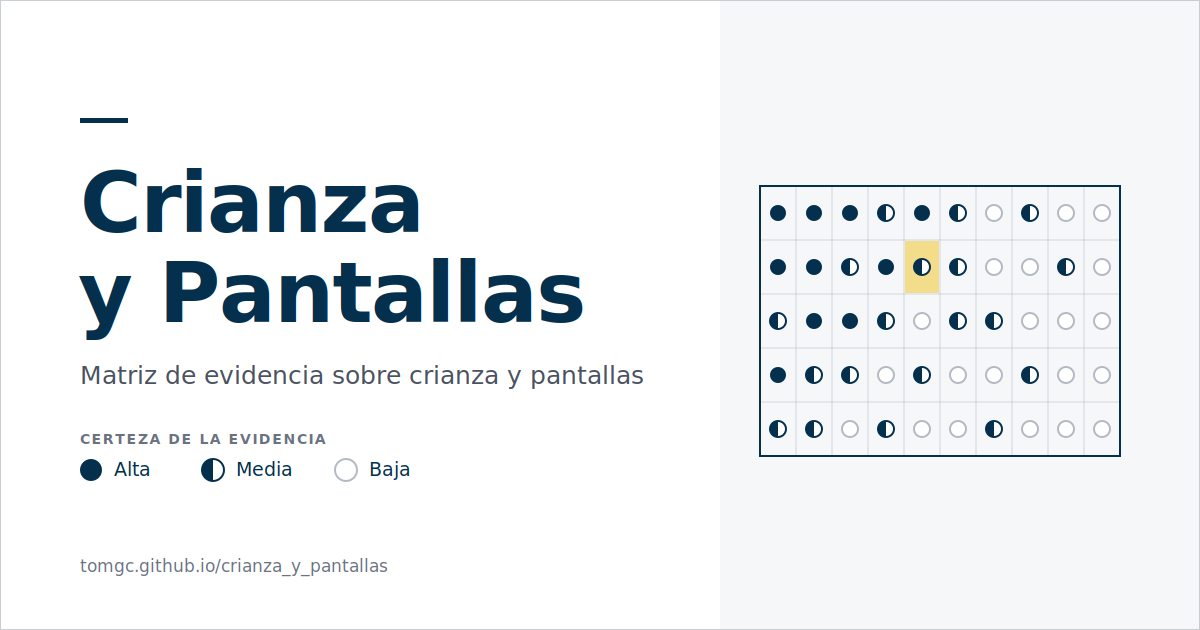
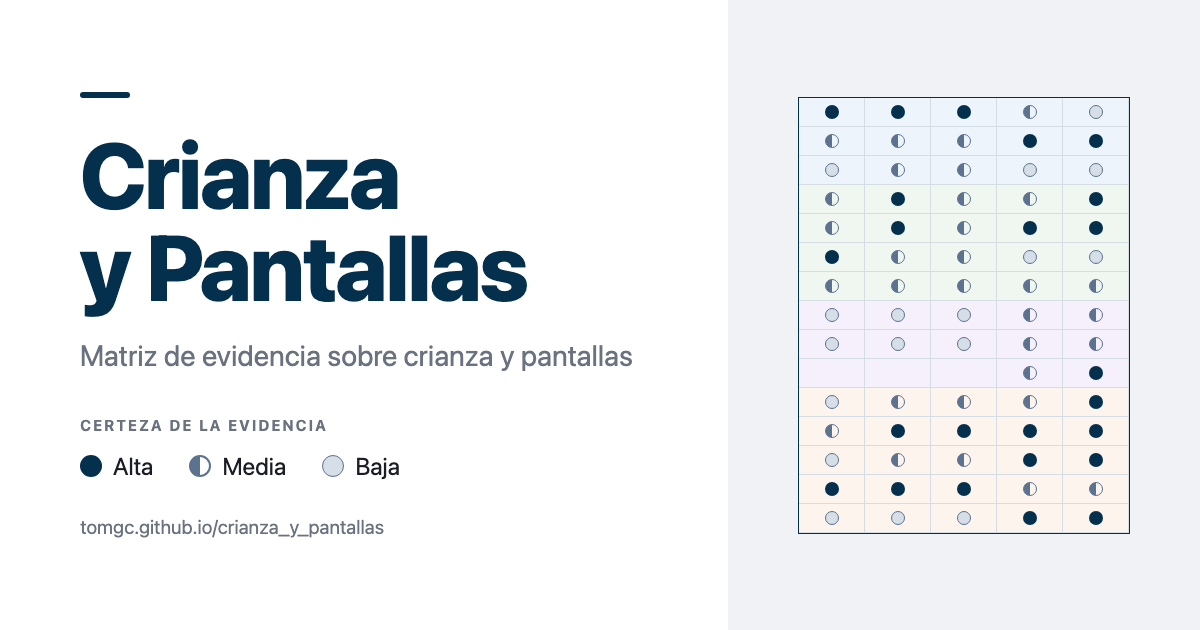
og-image: actualizar a 15×5 con bandas D-visual y certeza real; agregar generador

diff --git a/assets/og-image.html b/assets/og-image.html
@@ -1,0 +1,55 @@
+<!doctype html><html lang="es"><head><meta charset="utf-8"><style>
+*{margin:0;padding:0;box-sizing:border-box}
+html,body{width:1200px;height:630px}
+body{display:flex;font-family:-apple-system,BlinkMacSystemFont,"Segoe UI",Roboto,"Helvetica Neue",Arial,sans-serif;background:#fff;overflow:hidden}
+.left{width:728px;height:630px;padding:0 0 0 80px;display:flex;flex-direction:column;justify-content:center;background:#fff}
+.rule{width:50px;height:6px;background:#042f4d;border-radius:3px;margin-bottom:30px}
+.title{font-size:92px;line-height:1.0;font-weight:800;color:#042f4d;letter-spacing:-1.5px}
+.subtitle{font-size:29px;color:#6a7280;margin-top:26px}
+.spacer{height:44px}
+.cert{font-size:15px;color:#6a7280;font-weight:700;letter-spacing:2px}
+.legend{display:flex;gap:36px;align-items:center;margin-top:18px;font-size:24px;color:#1a1d24}
+.legend span{display:flex;align-items:center;gap:11px}
+.url{font-size:19px;color:#6a7280;margin-top:36px}
+.dot{width:22px;height:22px;border-radius:50%;display:inline-block;box-sizing:border-box}
+.high{background:#042f4d}
+.medium{background:linear-gradient(90deg,#5c728e 50%,transparent 50%);border:2px solid #5c728e}
+.low{background:#d6dfe8;border:1.5px solid #5c728e}
+.right{width:472px;height:630px;background:#f0f2f5;display:flex;align-items:center;justify-content:center}
+.grid{border:1px solid #042f4d;background:#fff}
+.row{display:grid;grid-template-columns:repeat(5,1fr)}
+.cog{background:#eef4fb}.soc{background:#f0f7f0}.dig{background:#f5f0fb}.bie{background:#fdf4ee}
+.cell{width:66px;height:29px;display:flex;align-items:center;justify-content:center;border-right:1px solid #d4dce4;border-bottom:1px solid #d4dce4}
+.cell .dot{width:14px;height:14px;border-width:1.5px}
+</style></head><body>
+  <div class="left">
+    <div class="rule"></div>
+    <div class="title">Crianza<br>y Pantallas</div>
+    <div class="subtitle">Matriz de evidencia sobre crianza y pantallas</div>
+    <div class="spacer"></div>
+    <div class="cert">CERTEZA DE LA EVIDENCIA</div>
+    <div class="legend">
+      <span><i class="dot high"></i>Alta</span>
+      <span><i class="dot medium"></i>Media</span>
+      <span><i class="dot low"></i>Baja</span>
+    </div>
+    <div class="url">tomgc.github.io/crianza_y_pantallas</div>
+  </div>
+  <div class="right"><div class="grid">
+      <div class="row cog"><div class="cell"><i class="dot high"></i></div><div class="cell"><i class="dot high"></i></div><div class="cell"><i class="dot high"></i></div><div class="cell"><i class="dot medium"></i></div><div class="cell"><i class="dot low"></i></div></div>
+      <div class="row cog"><div class="cell"><i class="dot medium"></i></div><div class="cell"><i class="dot medium"></i></div><div class="cell"><i class="dot medium"></i></div><div class="cell"><i class="dot high"></i></div><div class="cell"><i class="dot high"></i></div></div>
+      <div class="row cog"><div class="cell"><i class="dot low"></i></div><div class="cell"><i class="dot medium"></i></div><div class="cell"><i class="dot medium"></i></div><div class="cell"><i class="dot low"></i></div><div class="cell"><i class="dot low"></i></div></div>
+      <div class="row soc"><div class="cell"><i class="dot medium"></i></div><div class="cell"><i class="dot high"></i></div><div class="cell"><i class="dot medium"></i></div><div class="cell"><i class="dot medium"></i></div><div class="cell"><i class="dot high"></i></div></div>
+      <div class="row soc"><div class="cell"><i class="dot medium"></i></div><div class="cell"><i class="dot high"></i></div><div class="cell"><i class="dot medium"></i></div><div class="cell"><i class="dot high"></i></div><div class="cell"><i class="dot high"></i></div></div>
+      <div class="row soc"><div class="cell"><i class="dot high"></i></div><div class="cell"><i class="dot medium"></i></div><div class="cell"><i class="dot medium"></i></div><div class="cell"><i class="dot low"></i></div><div class="cell"><i class="dot low"></i></div></div>
+      <div class="row soc"><div class="cell"><i class="dot medium"></i></div><div class="cell"><i class="dot medium"></i></div><div class="cell"><i class="dot medium"></i></div><div class="cell"><i class="dot medium"></i></div><div class="cell"><i class="dot medium"></i></div></div>
+      <div class="row dig"><div class="cell"><i class="dot low"></i></div><div class="cell"><i class="dot low"></i></div><div class="cell"><i class="dot low"></i></div><div class="cell"><i class="dot medium"></i></div><div class="cell"><i class="dot medium"></i></div></div>
+      <div class="row dig"><div class="cell"><i class="dot low"></i></div><div class="cell"><i class="dot low"></i></div><div class="cell"><i class="dot low"></i></div><div class="cell"><i class="dot medium"></i></div><div class="cell"><i class="dot medium"></i></div></div>
+      <div class="row dig"><div class="cell"></div><div class="cell"></div><div class="cell"></div><div class="cell"><i class="dot medium"></i></div><div class="cell"><i class="dot high"></i></div></div>
+      <div class="row bie"><div class="cell"><i class="dot low"></i></div><div class="cell"><i class="dot medium"></i></div><div class="cell"><i class="dot medium"></i></div><div class="cell"><i class="dot medium"></i></div><div class="cell"><i class="dot high"></i></div></div>
+      <div class="row bie"><div class="cell"><i class="dot medium"></i></div><div class="cell"><i class="dot high"></i></div><div class="cell"><i class="dot high"></i></div><div class="cell"><i class="dot high"></i></div><div class="cell"><i class="dot high"></i></div></div>
+      <div class="row bie"><div class="cell"><i class="dot low"></i></div><div class="cell"><i class="dot medium"></i></div><div class="cell"><i class="dot medium"></i></div><div class="cell"><i class="dot high"></i></div><div class="cell"><i class="dot high"></i></div></div>
+      <div class="row bie"><div class="cell"><i class="dot high"></i></div><div class="cell"><i class="dot high"></i></div><div class="cell"><i class="dot high"></i></div><div class="cell"><i class="dot medium"></i></div><div class="cell"><i class="dot medium"></i></div></div>
+      <div class="row bie"><div class="cell"><i class="dot low"></i></div><div class="cell"><i class="dot low"></i></div><div class="cell"><i class="dot low"></i></div><div class="cell"><i class="dot high"></i></div><div class="cell"><i class="dot high"></i></div></div>
+      </div></div>
+</body></html>

diff --git a/00_generar_og_image.py b/00_generar_og_image.py
@@ -1,0 +1,119 @@
+#!/usr/bin/env python3
+# -*- coding: utf-8 -*-
+# =============================================================================
+# 00_generar_og_image.py
+# -----------------------------------------------------------------------------
+# Genera la og-image (1200x630) de Crianza y Pantallas.
+# Lee metadata.json (dimensiones + tramos) y claims.json (certeza por celda),
+# construye assets/og-image.html (panel de marca + mini-matriz 15x5 con las 4
+# bandas de bloque de D-visual y la certeza REAL de cada celda) y la renderiza
+# a assets/og-image.png con Chrome headless.
+#
+# Uso:  python3 00_generar_og_image.py
+# Re-ejecutar tras cambios en la matriz (dimensiones, tramos o certezas).
+# El og:image del template ya apunta a assets/og-image.png; es asset estatico
+# (no pasa por ./00_build.sh).
+# =============================================================================
+import json, os, subprocess, sys
+from pathlib import Path
+
+ROOT   = Path(__file__).resolve().parent
+META   = ROOT / "10_fuentes/data/metadata.json"
+CLAIMS = ROOT / "10_fuentes/data/claims.json"
+HTML   = ROOT / "assets/og-image.html"
+PNG    = ROOT / "assets/og-image.png"
+
+# dim -> bloque tematico (replica DIM_BLOCKS de app.js)
+BLOCK = {
+    "lenguaje": "cog", "cognicion": "cog", "creatividad": "cog",
+    "socioemocional": "soc", "comportamiento": "soc", "vinculo": "soc", "co-regulacion": "soc",
+    "alfabetizacion": "dig", "privacidad": "dig", "cyberbullying": "dig",
+    "salud-mental": "bie", "sueno": "bie", "fisica": "bie", "alimentacion": "bie", "vision": "bie",
+}
+
+CSS = """*{margin:0;padding:0;box-sizing:border-box}
+html,body{width:1200px;height:630px}
+body{display:flex;font-family:-apple-system,BlinkMacSystemFont,"Segoe UI",Roboto,"Helvetica Neue",Arial,sans-serif;background:#fff;overflow:hidden}
+.left{width:728px;height:630px;padding:0 0 0 80px;display:flex;flex-direction:column;justify-content:center;background:#fff}
+.rule{width:50px;height:6px;background:#042f4d;border-radius:3px;margin-bottom:30px}
+.title{font-size:92px;line-height:1.0;font-weight:800;color:#042f4d;letter-spacing:-1.5px}
+.subtitle{font-size:29px;color:#6a7280;margin-top:26px}
+.spacer{height:44px}
+.cert{font-size:15px;color:#6a7280;font-weight:700;letter-spacing:2px}
+.legend{display:flex;gap:36px;align-items:center;margin-top:18px;font-size:24px;color:#1a1d24}
+.legend span{display:flex;align-items:center;gap:11px}
+.url{font-size:19px;color:#6a7280;margin-top:36px}
+.dot{width:22px;height:22px;border-radius:50%;display:inline-block;box-sizing:border-box}
+.high{background:#042f4d}
+.medium{background:linear-gradient(90deg,#5c728e 50%,transparent 50%);border:2px solid #5c728e}
+.low{background:#d6dfe8;border:1.5px solid #5c728e}
+.right{width:472px;height:630px;background:#f0f2f5;display:flex;align-items:center;justify-content:center}
+.grid{border:1px solid #042f4d;background:#fff}
+.row{display:grid;grid-template-columns:repeat(5,1fr)}
+.cog{background:#eef4fb}.soc{background:#f0f7f0}.dig{background:#f5f0fb}.bie{background:#fdf4ee}
+.cell{width:66px;height:29px;display:flex;align-items:center;justify-content:center;border-right:1px solid #d4dce4;border-bottom:1px solid #d4dce4}
+.cell .dot{width:14px;height:14px;border-width:1.5px}"""
+
+
+def build_html():
+    meta = json.loads(META.read_text(encoding="utf-8"))
+    claims = json.loads(CLAIMS.read_text(encoding="utf-8"))
+    ages = [g["id"] for g in meta["ageGroups"]]
+    dims = [d["id"] for d in meta["dimensions"]]
+    rows = ""
+    for d in dims:
+        cells = ""
+        for ag in ages:
+            cell = claims.get(f"{d}-{ag}", {})
+            cert = (cell.get("certainty", "") if cell.get("claims") else "empty") or "empty"
+            dot = "" if cert == "empty" else f'<i class="dot {cert}"></i>'
+            cells += f'<div class="cell">{dot}</div>'
+        rows += f'\n      <div class="row {BLOCK.get(d, "cog")}">{cells}</div>'
+    return (
+        '<!doctype html><html lang="es"><head><meta charset="utf-8"><style>\n'
+        + CSS +
+        '\n</style></head><body>\n'
+        '  <div class="left">\n'
+        '    <div class="rule"></div>\n'
+        '    <div class="title">Crianza<br>y Pantallas</div>\n'
+        '    <div class="subtitle">Matriz de evidencia sobre crianza y pantallas</div>\n'
+        '    <div class="spacer"></div>\n'
+        '    <div class="cert">CERTEZA DE LA EVIDENCIA</div>\n'
+        '    <div class="legend">\n'
+        '      <span><i class="dot high"></i>Alta</span>\n'
+        '      <span><i class="dot medium"></i>Media</span>\n'
+        '      <span><i class="dot low"></i>Baja</span>\n'
+        '    </div>\n'
+        '    <div class="url">tomgc.github.io/crianza_y_pantallas</div>\n'
+        '  </div>\n'
+        '  <div class="right"><div class="grid">' + rows + '\n      </div></div>\n'
+        '</body></html>\n'
+    )
+
+
+def find_chrome():
+    for c in [
+        "/Applications/Google Chrome.app/Contents/MacOS/Google Chrome",
+        "/Applications/Chromium.app/Contents/MacOS/Chromium",
+        "/Applications/Microsoft Edge.app/Contents/MacOS/Microsoft Edge",
+    ]:
+        if os.path.exists(c):
+            return c
+    sys.exit("✗ No se encontró Chrome/Chromium/Edge para renderizar la og-image.")
+
+
+def main():
+    HTML.write_text(build_html(), encoding="utf-8")
+    print(f"✓ {HTML.relative_to(ROOT)} generado")
+    chrome = find_chrome()
+    subprocess.run(
+        [chrome, "--headless=new", "--disable-gpu", "--hide-scrollbars",
+         "--force-device-scale-factor=1", "--window-size=1200,630",
+         f"--screenshot={PNG}", f"file://{HTML}"],
+        check=True, stdout=subprocess.DEVNULL, stderr=subprocess.DEVNULL,
+    )
+    print(f"✓ {PNG.relative_to(ROOT)} renderizado (1200x630)")
+
+
+if __name__ == "__main__":
+    main()
